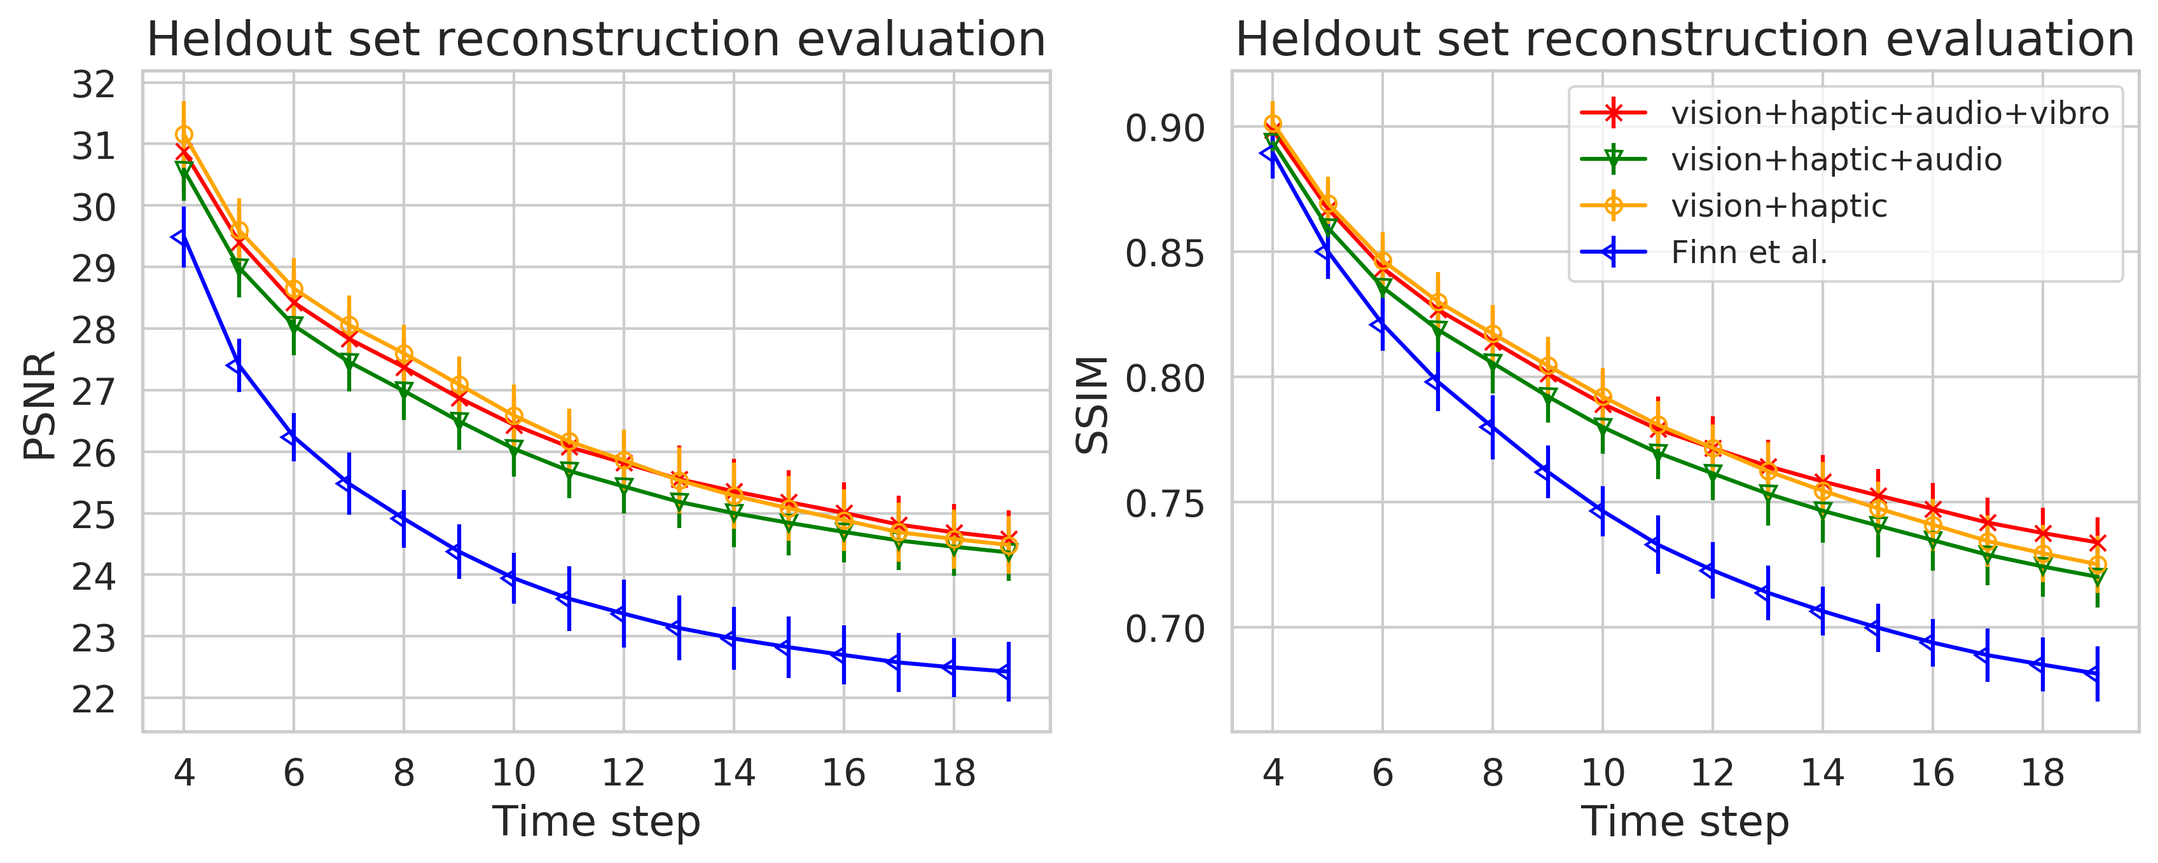
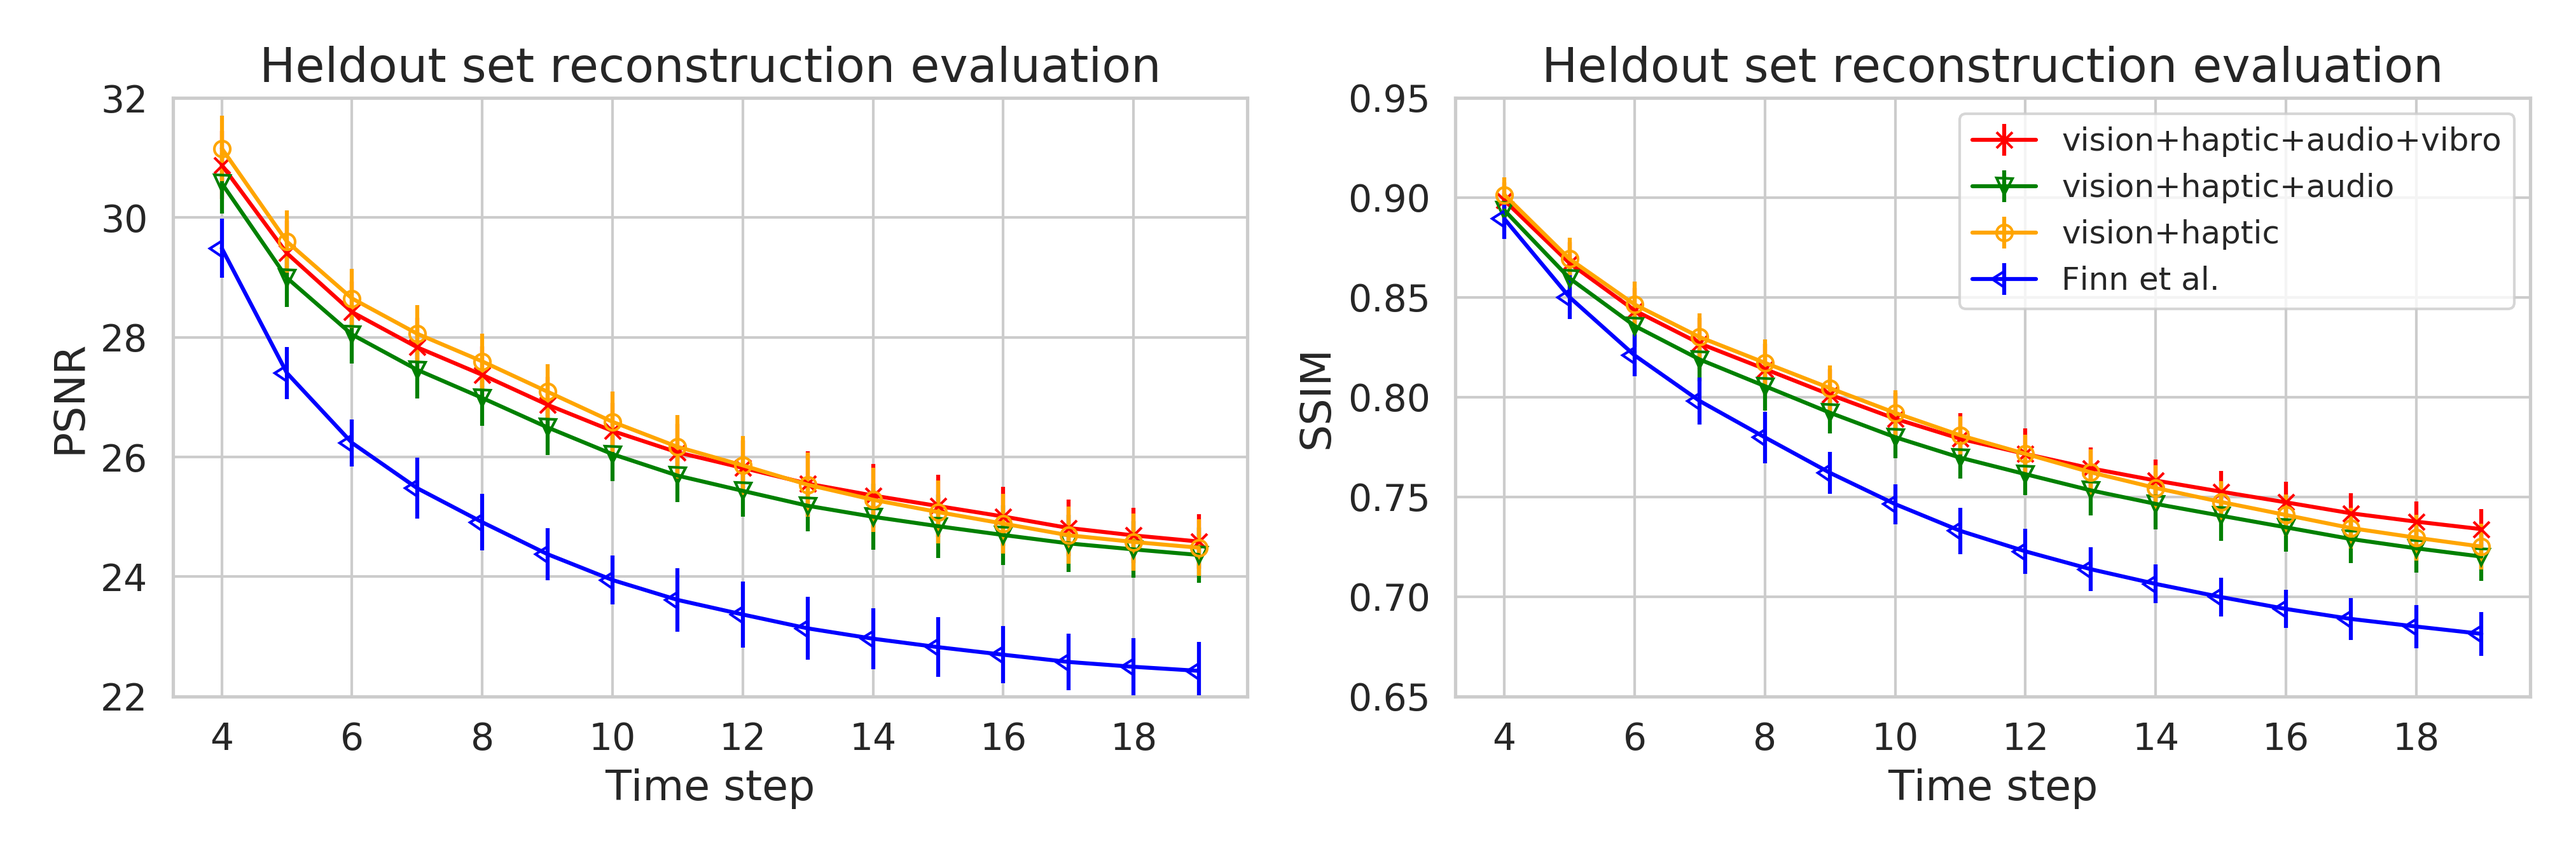
visualization update

diff --git a/results/plot_all_withorwithou_behave.py b/results/plot_all_withorwithou_behave.py
@@ -7,35 +7,40 @@ paths = {
     'PSNR':'Experiement_object_based_all_behavior_w_o_behave/psnr_all.csv',
     'SSIM': 'Experiement_object_based_all_behavior_w_o_behave/ssim_all.csv'
 }
-sns.set(style="darkgrid")
+sns.set(style="whitegrid")
 # sns.set(rc={'figure.figsize':(8.7,11.27)})
 
 # f, axes = plt.subplots(1, 2, figsize=(16, 5))
-
-plt.rcParams.update({'font.size': 20})
+# plt.rcParams.update({'errorbar.capsize': 3})
+plt.rcParams.update({'font.size': 16})
 plt.rc('ytick', labelsize=14)
 plt.rc('xtick', labelsize=14)
 f, axes = plt.subplots(1, 2, figsize=(13.5,4.5))
 for i, metric in enumerate(paths):
     df = pd.read_csv(paths[metric])
     if i == len(paths)-1:
-        sns.lineplot(x=range(4, 20), y=df.use_haptic_audio_vibro, ax=axes[i], marker="o", label="With Behavior Input Feature", color='orange')
-        sns.lineplot(x=range(4, 20), y=df.use_haptic_audio_vibro_wo, ax=axes[i], marker="X", label="Without Behavior Input Feature", color='green')
-        sns.lineplot(x=range(4, 20), y=df.baseline, ax=axes[i], marker=8, label="Finn et al.", color='blue')
+        axes[1].errorbar(x=range(4, 20), y=df.use_haptic_audio_vibro, yerr=df.use_haptic_audio_vibro_std, marker="o", label="With Behavior Input Feature", fillstyle='none', color='orange')
+        axes[1].errorbar(x=range(4, 20), y=df.use_haptic_audio_vibro_wo, yerr=df.use_haptic_audio_vibro_wo_std, marker="x", label="Without Behavior Input Feature", fillstyle='none', color='green')
+        axes[1].errorbar(x=range(4, 20), y=df.baseline, yerr=df.baseline_std, marker=8, label="Finn et al.", fillstyle='none', color='blue')
+        axes[i].set_ylim(0.65, 0.95)
+
     else:
-        sns.lineplot(x=range(4, 20), y=df.use_haptic_audio_vibro, ax=axes[i], marker="o", color='orange')
-        sns.lineplot(x=range(4, 20), y=df.use_haptic_audio_vibro_wo, marker="X", ax=axes[i], color='green')
-        sns.lineplot(x=range(4, 20), y=df.baseline, ax=axes[i], marker=8, color='blue')
-    axes[i].set_ylabel(metric, fontsize = 20)
-    axes[i].set_xlabel("Time step", fontsize = 20)
-    axes[i].set_title("Heldout set reconstruction evaluation", fontsize = 20)
+        axes[0].errorbar(x=range(4, 20), y=df.use_haptic_audio_vibro, yerr=df.use_haptic_audio_vibro_std,marker="o", fillstyle='none', color='orange')
+        axes[0].errorbar(x=range(4, 20), y=df.use_haptic_audio_vibro_wo, yerr=df.use_haptic_audio_vibro_wo_std, marker="x", fillstyle='none', color='green')
+        axes[0].errorbar(x=range(4, 20),y=df.baseline, yerr=df.baseline_std,  marker=8, fillstyle='none', color='blue')
+        axes[i].set_ylim(22, 32)
+
+    axes[i].set_ylabel(metric, fontsize = 16)
+    axes[i].set_xlabel("Time step", fontsize = 16)
+    axes[i].set_title("Heldout set reconstruction evaluation", fontsize = 18)
     axes[i].xaxis.set_major_locator(ticker.MultipleLocator(2))
     if metric == 'SSIM':
         axes[i].yaxis.set_major_locator(ticker.MultipleLocator(0.05))
     else:
-        axes[i].yaxis.set_major_locator(ticker.MultipleLocator(1))
+        axes[i].yaxis.set_major_locator(ticker.MultipleLocator(2))
 
 # plt.subplots_adjust(wspace=0.45)
 plt.legend(fontsize=12)
-plt.savefig('ablation_on_behavior.png', dpi=300, bbox_inches='tight')
+plt.tight_layout()
+plt.savefig('ablation_on_behavior.png', dpi=300)
 plt.show()

diff --git a/dataset_visualization/plot_haptic_all_frames.py b/dataset_visualization/plot_haptic_all_frames.py
@@ -59,24 +59,20 @@ for index, a_frame in enumerate(haptic_across_all_frames):
 haptic_data = haptic_across_all_frames.T
 sum_of_rows = haptic_data.sum(axis=1)
 haptic_data = haptic_data/ sum_of_rows[:, np.newaxis]
-fig = plt.figure(figsize=(22.0, 8.0))
+# fig = plt.figure(figsize=(3200.0/300.0, 2100.0/300.0))
 import matplotlib.gridspec as gridspec
-gs = gridspec.GridSpec(10, 1, hspace=0.1)
-# fig1, f1_axes = plt.subplots(ncols=1, nrows=10, constrained_layout=True,figsize=(20.0, 8.0))
+# gs = gridspec.GridSpec(10, 1, hspace=0.1)
+# fig1, f1_axes = plt.subplots(ncols=1, nrows=10, constrained_layout=True, figsize=(20.0, 8.0))
+fig, axes = plt.subplots(nrows=10, figsize=(3200.0/300.0, 2100.0/300.0))
 ax1 = None
-for i, g in enumerate(gs):
-    ax = plt.subplot(g)
+for i, ax in enumerate(axes):
     ax.set_xticks([])
     ax.set_yticks([])
-    # ax.set_title(str(i+1))
-    if i ==0 :
-        plt.title("Visualization of Haptic Features", fontsize=24)
-    # ax.set_yticks(np.arange(0, 10+1, 1))
-    plt.imshow(haptic_data[i:i+1,:])
-    plt.ylabel(ylabel=str(i+1), fontsize=20)
+    ax.imshow(haptic_data[i:i+1,:], cmap=plt.cm.gray)
+    ax.set_ylabel(ylabel=str(i+1), fontsize=32)
     if i == 9:
-        plt.xticks(np.arange(0, 21+1, 2), fontsize=20)
-        # plt.
+        plt.xticks(np.arange(0, 21+1, 2), fontsize=24)
+
 # f1_axes[0].imshow(haptic_data, cmap=plt.cm.gray) #for gray_scale: cmap=plt.cm.gray
 
 # ax = plt.gca()
@@ -84,9 +80,10 @@ for i, g in enumerate(gs):
 # ax.set_yticklabels(np.arange(1, 10+1, 1))
 
 # plt.ylabel(ylabel="Joints [1-7], End Effector [8-10]", fontsize=18)
-plt.xlabel(xlabel="Frames", fontsize=24)
-
+plt.xlabel(xlabel="Frames", fontsize=32)
 # plt.colorbar()
-plt.savefig("haptic_low_drop_can_coke.png", dpi=300, bbox_inches='tight')
+plt.tight_layout()
+plt.subplots_adjust(hspace=0.0)
+plt.savefig("haptic_low_drop_can_coke.png", dpi=300)
 plt.show()
 plt.close()

diff --git a/results/plot_all_with_std.py b/results/plot_all_with_std.py
@@ -20,22 +20,27 @@ for i, metric in enumerate(paths):
         axes[1].errorbar(x=range(4, 20), y=df.use_haptic_audio_mean, yerr=df.use_haptic_audio_std, marker='v', fillstyle='none',label="vision+haptic+audio", color='green')
         axes[1].errorbar(x=range(4, 20), y=df.use_haptic_mean, yerr=df.use_haptic_std, marker="o", fillstyle='none',label="vision+haptic", color='orange')
         axes[1].errorbar(x=range(4, 20), y=df.baseline_mean, yerr=df.baseline_std, marker=8, fillstyle='none',label="Finn et al.", color='blue')
+        axes[i].set_ylim(0.65, 0.95)
     else:
         axes[0].errorbar(x=range(4, 20), y=df.use_haptic_audio_vibro_mean, yerr=df.use_haptic_audio_vibro_std, fillstyle='none',marker="x", color='red')
         axes[0].errorbar(x=range(4, 20), y=df.use_haptic_audio_mean, yerr=df.use_haptic_audio_std, marker='v', fillstyle='none',color='green')
         axes[0].errorbar(x=range(4, 20), y=df.use_haptic_mean, yerr=df.use_haptic_std, marker="o",fillstyle='none', color='orange')
         axes[0].errorbar(x=range(4, 20), y=df.baseline_mean, yerr=df.baseline_std, marker=8, fillstyle='none',color='blue')
+        axes[i].set_ylim(22, 32)
     axes[i].set_ylabel(metric, fontsize = 16)
     axes[i].set_xlabel("Time step", fontsize = 16)
     axes[i].set_title("Heldout set reconstruction evaluation", fontsize = 18)
+
     # plt.xlabel("# frames")
     axes[i].xaxis.set_major_locator(ticker.MultipleLocator(2))
     if metric == 'SSIM':
         axes[i].yaxis.set_major_locator(ticker.MultipleLocator(0.05))
     else:
-        axes[i].yaxis.set_major_locator(ticker.MultipleLocator(1))
+        axes[i].yaxis.set_major_locator(ticker.MultipleLocator(2))
 
 # plt.subplots_adjust(wspace=0.45)
 plt.legend(fontsize=12)
-plt.savefig('all_with_std.png', dpi=300, bbox_inches='tight')
+
+plt.tight_layout()
+plt.savefig('all_with_std.png', dpi=300)
 plt.show()

diff --git a/data/make_spectrogram.py b/data/make_spectrogram.py
@@ -64,21 +64,25 @@ def plotstft(audio_path, binsize=2 ** 10, plotpath=None, colormap="jet", fig_nam
     sshow = sshow[2:, :]
     ims = 20. * np.log10(np.abs(sshow) / 10e-6)  # amplitude to decibel
     timebins, freqbins = np.shape(ims)
-    plt.figure(figsize=(15, 7.5))
-    plt.imshow(np.transpose(ims), origin="lower", aspect="auto", cmap=colormap, interpolation="none")
-    plt.colorbar()
+    plt.figure(figsize=(3200.0/300.0, 2100.0/300.0))
 
-    plt.xlabel("time (s)", fontsize=14)
-    plt.ylabel("frequency (hz)", fontsize=14)
+    # plt.title("Audio Spectrogram", fontsize=32)
+    plt.xlabel("Time (s)", fontsize=32)
+    plt.ylabel("Frequency (kHz)", fontsize=32)
     plt.xlim([0, timebins - 1])
     plt.ylim([0, freqbins])
 
     xlocs = np.float32(np.linspace(0, timebins - 1, 5))
-    plt.xticks(xlocs, ["%.02f" % l for l in ((xlocs * len(samples) / timebins) + (0.5 * binsize)) / samplerate], fontsize=12)
-    ylocs = np.int16(np.round(np.linspace(0, freqbins - 1, 10)))
-    plt.yticks(ylocs, ["%.02f" % freq[i] for i in ylocs], fontsize=12)
+    plt.xticks(xlocs, ["%.01f" % l for l in ((xlocs * len(samples) / timebins) + (0.5 * binsize)) / samplerate], fontsize=24)
+    ylocs = np.int16(np.round(np.linspace(0, freqbins - 1, 23)))[::4]
+    ylocs1 = list(range(int(np.max(freq)//1000)+1))[::4]
 
-    plt.savefig("audio_spectrogram_low_drop_can_coke.png", bbox_inches="tight")
+    plt.yticks(ylocs[1:], ylocs1[1:], fontsize=24)
+
+    plt.imshow(np.transpose(ims), origin="lower", aspect="auto", cmap=colormap, interpolation="none")
+    # plt.colorbar()
+    plt.tight_layout()
+    plt.savefig("audio_spectrogram_low_drop_can_coke.png", dpi=300)
 
     ims = np.transpose(ims)
     ims = ims[0:256, :]

diff --git a/dataset_visualization/plot_raw_data_vibro.py b/dataset_visualization/plot_raw_data_vibro.py
@@ -67,22 +67,25 @@ binsn_low_drop_can_coke = binsn_low_drop_can_coke * v_h_ratio
 # vibro_data = vibro_data[crop_stategy[behavior][0]:crop_stategy[behavior][1]]
 # print(vibro_data)
 
-x = vibro_data[2000:4000,0]
-y = vibro_data[2000:4000,1]
-z = vibro_data[2000:4000,2]
+x = vibro_data[1000:2000,0] / 1000
+y = vibro_data[1000:2000,1] / 1000
+z = vibro_data[1000:2000,2] / 1000
 std = np.sqrt(x**2+y**2+z**2)
-timestep = np.arange(len(x))
+timestep = [i/ 1000 for i in np.arange(len(x))]
 
-fig = plt.figure(figsize=(20.0, 8.0))
+fig = plt.figure(figsize=(3200.0/300.0, 2100.0/300.0))
 plt.plot(timestep, x, label="x-axis accelerometer")
 plt.plot(timestep, y, label="y-axis accelerometer")
 plt.plot(timestep, z, label="z-axis accelerometer")
 # plt.plot(timestep, std, label="magnitude deviation of accelerometer")
 
-plt.ylabel(ylabel="Acceleration", fontsize=18)
-plt.xlabel(xlabel="Time (ms)", fontsize=18)
-plt.title("Raw 3-axis accelerometer readings", fontsize=18)
-plt.legend(fontsize=12)
+plt.ylabel(ylabel="Acceleration (g)", fontsize=32)
+plt.xlabel(xlabel="Time (s)", fontsize=32)
+plt.xticks(fontsize=24)
+plt.yticks(fontsize=24)
+# plt.title("Raw 3-axis Accelerometer Readings", fontsize=32)
+plt.legend(fontsize=22)
 # plt.show()
-plt.savefig('vibro_low_drop_can_coke.png', dpi=300, bbox_inches='tight')
+plt.tight_layout()
+plt.savefig('vibro_low_drop_can_coke.png', dpi=300)
 plt.close()

diff --git a/results/plot_group_bar_plot.py b/results/plot_group_bar_plot.py
@@ -64,7 +64,7 @@ plt.ylabel('SSIM', fontsize=16)
 
 # reodering the legends and renaming them
 handles, _ = plt.gca().get_legend_handles_labels()
-labels = ['Finn et al. (vision)', 'vision+haptic', 'vision+haptic+audio', 'vision+haptic+audio+vibro']
+labels = ['Finn et al.', 'vision+haptic', 'vision+haptic+audio', 'vision+haptic+audio+vibro']
 order = [3,2,1,0]
 plt.legend([handles[idx] for idx in order],[labels[idx] for idx in order], loc='upper left')
 
